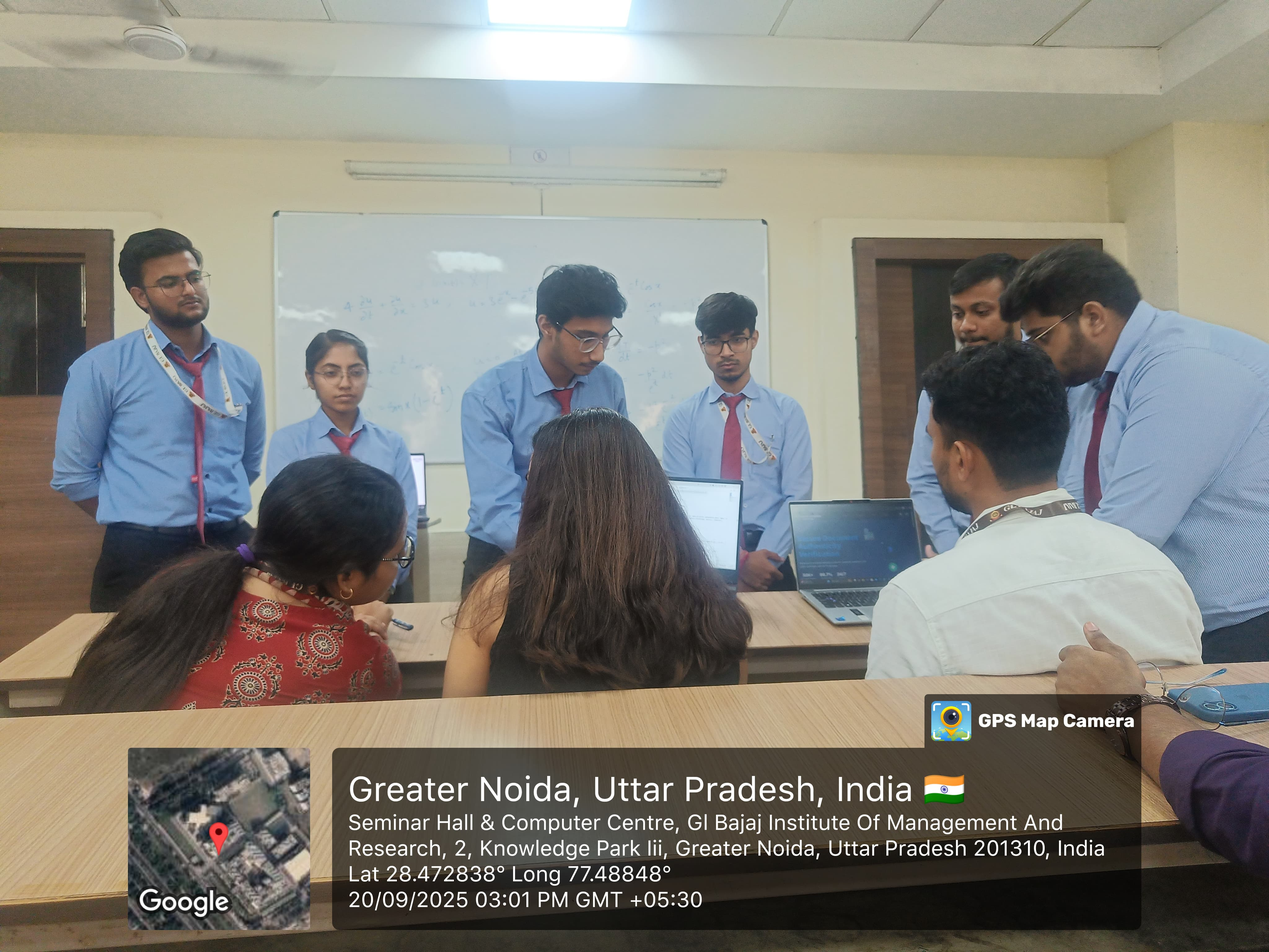
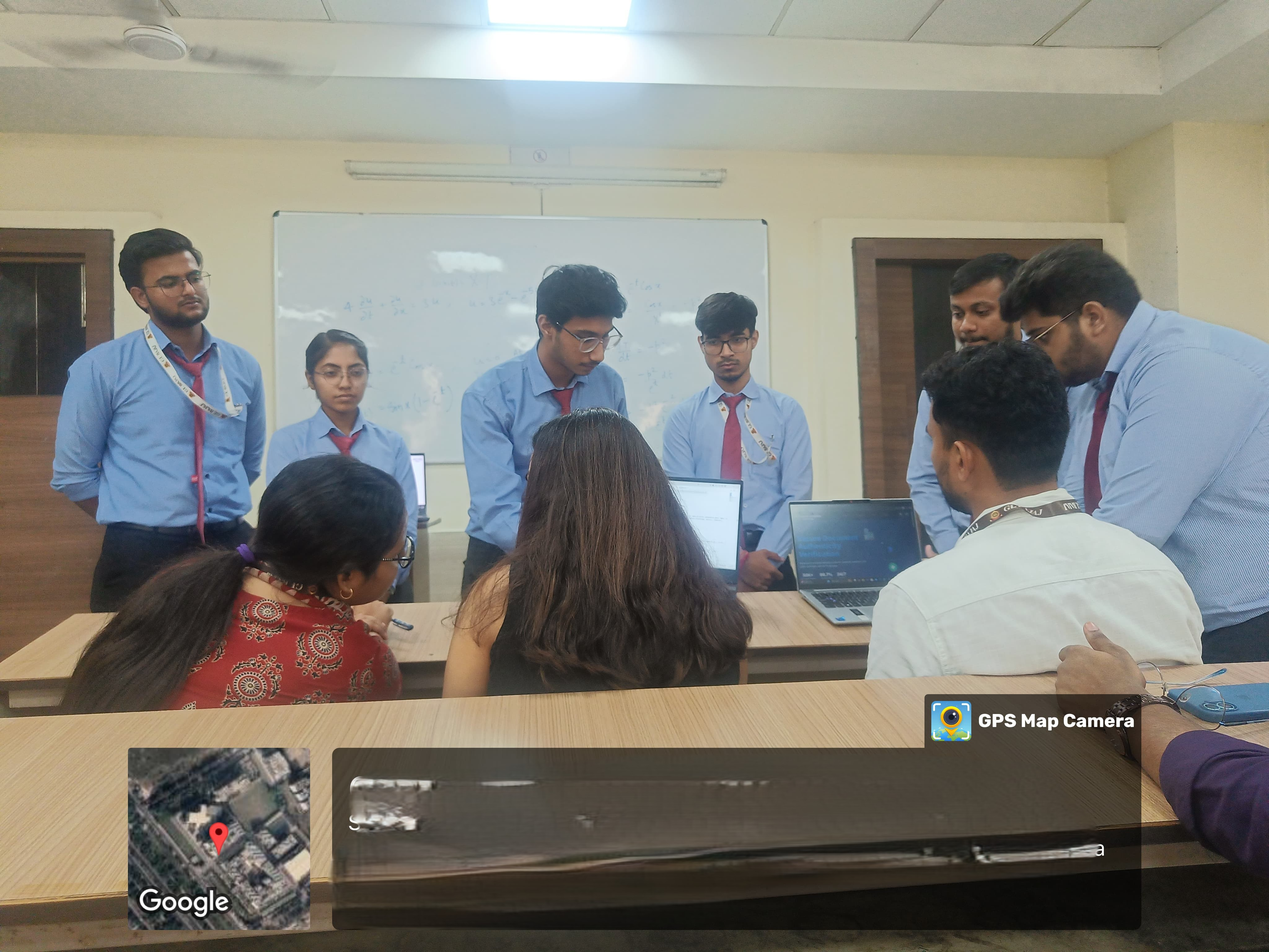
picture location removed

Changed region(s): [[0.25, 0.8125, 0.875, 0.9688]]

diff --git a/Task-1Beginner/v3-copy-2/i3.html b/Task-1Beginner/v3-copy-2/i3.html
@@ -95,7 +95,7 @@
                                     <span class="tag-pill">OpenCV</span>
                                     <span class="tag-pill">MediaPipe</span>
                                 </div>
-                                <a href="https://github.com/Dkachangal/AI-ML-with-Python" target="_blank" id="p-link"
+                                <a href="https://github.com/Dkachangal/CurrencyConvertor" target="_blank" id="p-link"
                                     class="p-btn">View
                                     Repository —></a>
                                 <a href="https://divyanshk-currency-converter.netlify.app/" target="_blank"
@@ -114,7 +114,7 @@
                                     on scalable system prototypes and rapid logic deployment.
                                 </p>
                                 <div id="exp-actions">
-                                    <a href="https://github.com/Dkachangal" target="_blank" class="p-btn" id="exp-link"
+                                    <a href="https://github.com/Dkachangal/SIH-2025-26" target="_blank" class="p-btn" id="exp-link"
                                         style="color: #515151; border-color: #515151;">View SIH Solution —></a>
                                 </div>
                             </div>

diff --git a/Task-1Beginner/v3-copy-2/v3j.js b/Task-1Beginner/v3-copy-2/v3j.js
@@ -88,7 +88,7 @@ if (windowWidth >= 1100) {
             desc: "A modular currency converter built with JS. Features asynchronous API fetching and a responsive interface.",
             tags: ["JS", "CSS", "API"],
             num: "03 / 03",
-            link: "https://divyanshk-currency-converter.netlify.app/"
+            link: "https://github.com/Dkachangal/CurrencyConvertor",
         }
     ];
 
